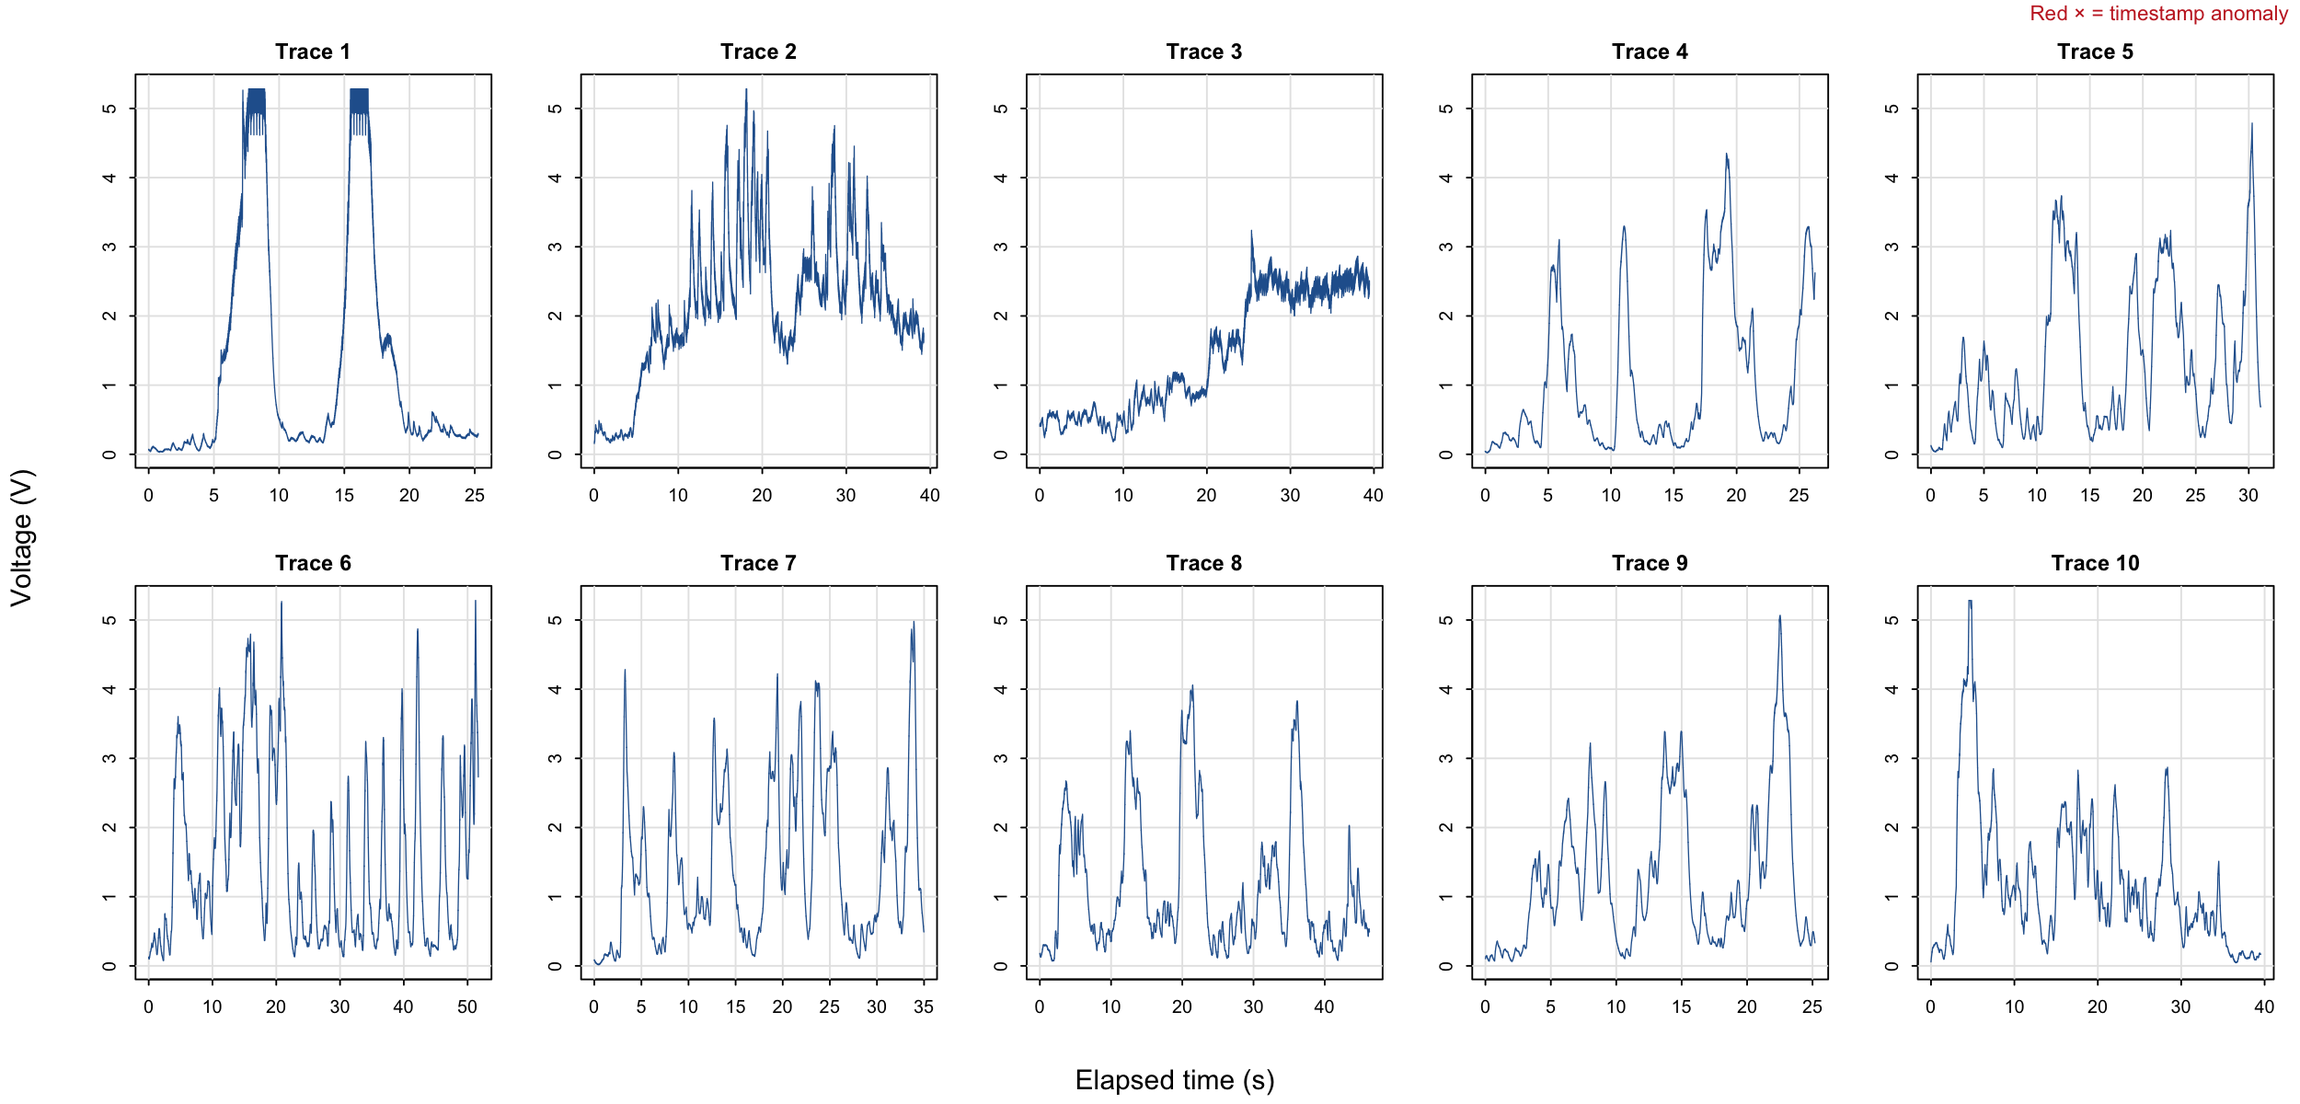
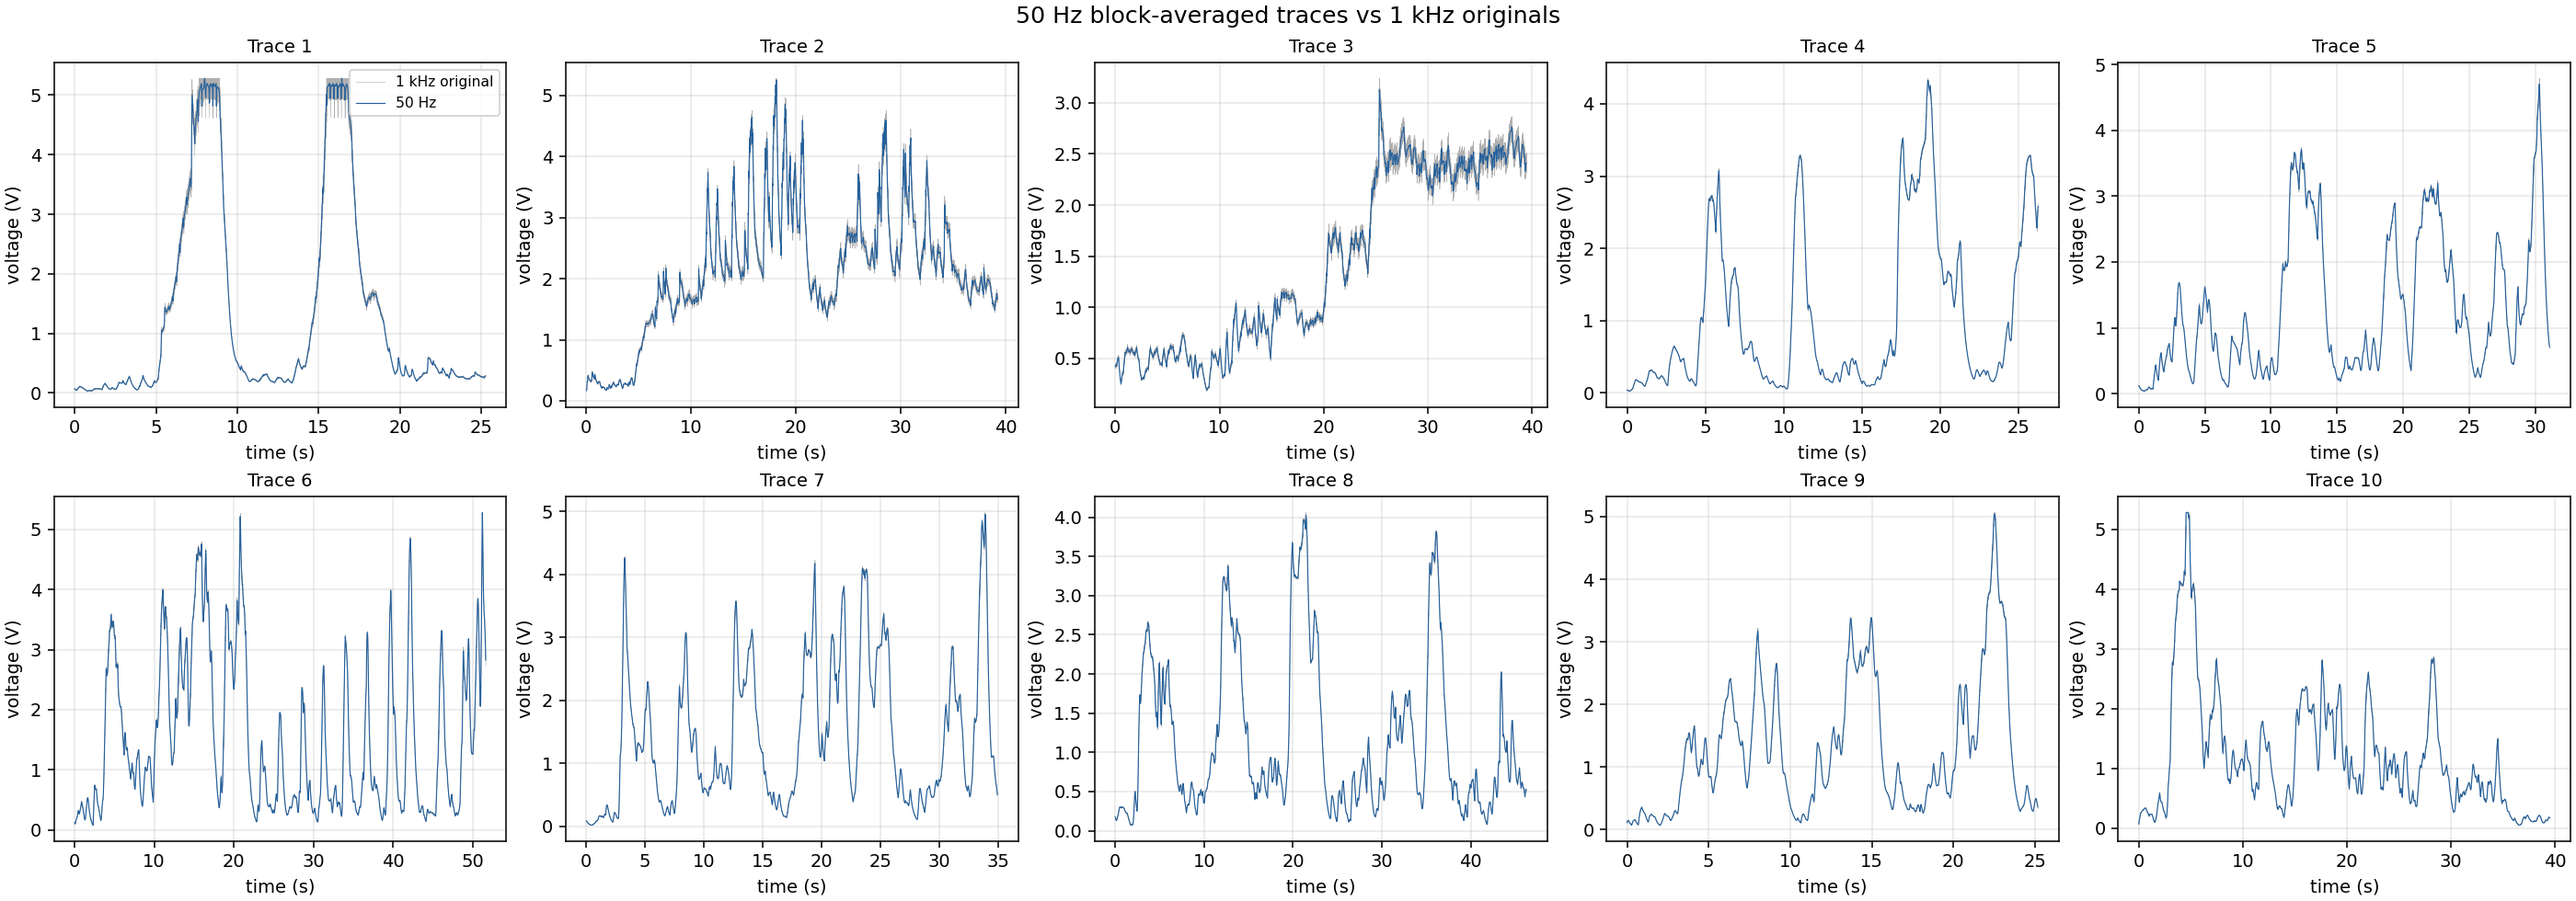
Move 1 kHz traces to traces/original and 50 Hz traces to traces/

diff --git a/scripts/otii/downsample_traces.py b/scripts/otii/downsample_traces.py
@@ -1,8 +1,8 @@
 #!/usr/bin/env python3
 """Downsample 1 kHz Mementos voltage traces by block averaging.
 
-    uv run python scripts/otii/downsample_traces.py benchmarks/traces/[0-9]*.txt \
-        -o benchmarks/traces/50hz
+    uv run python scripts/otii/downsample_traces.py benchmarks/traces/original/[0-9]*.txt \
+        -o benchmarks/traces
 
 Each output sample is the mean of the corresponding block of input samples
 (e.g. 20 samples for 50 Hz), which acts as the anti-aliasing filter; picking
